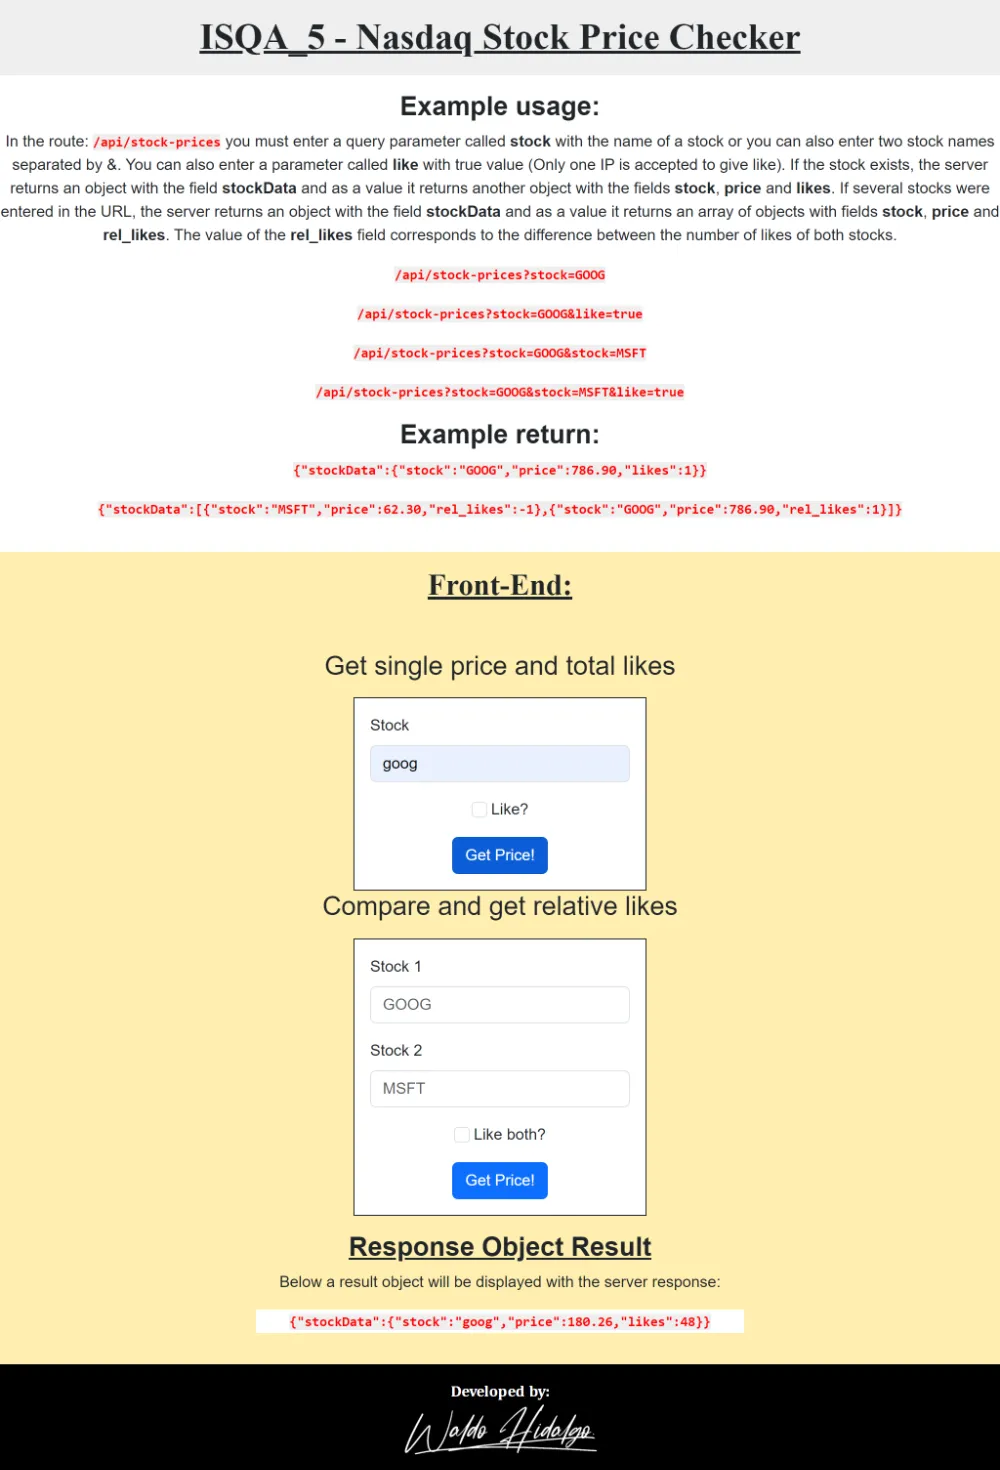
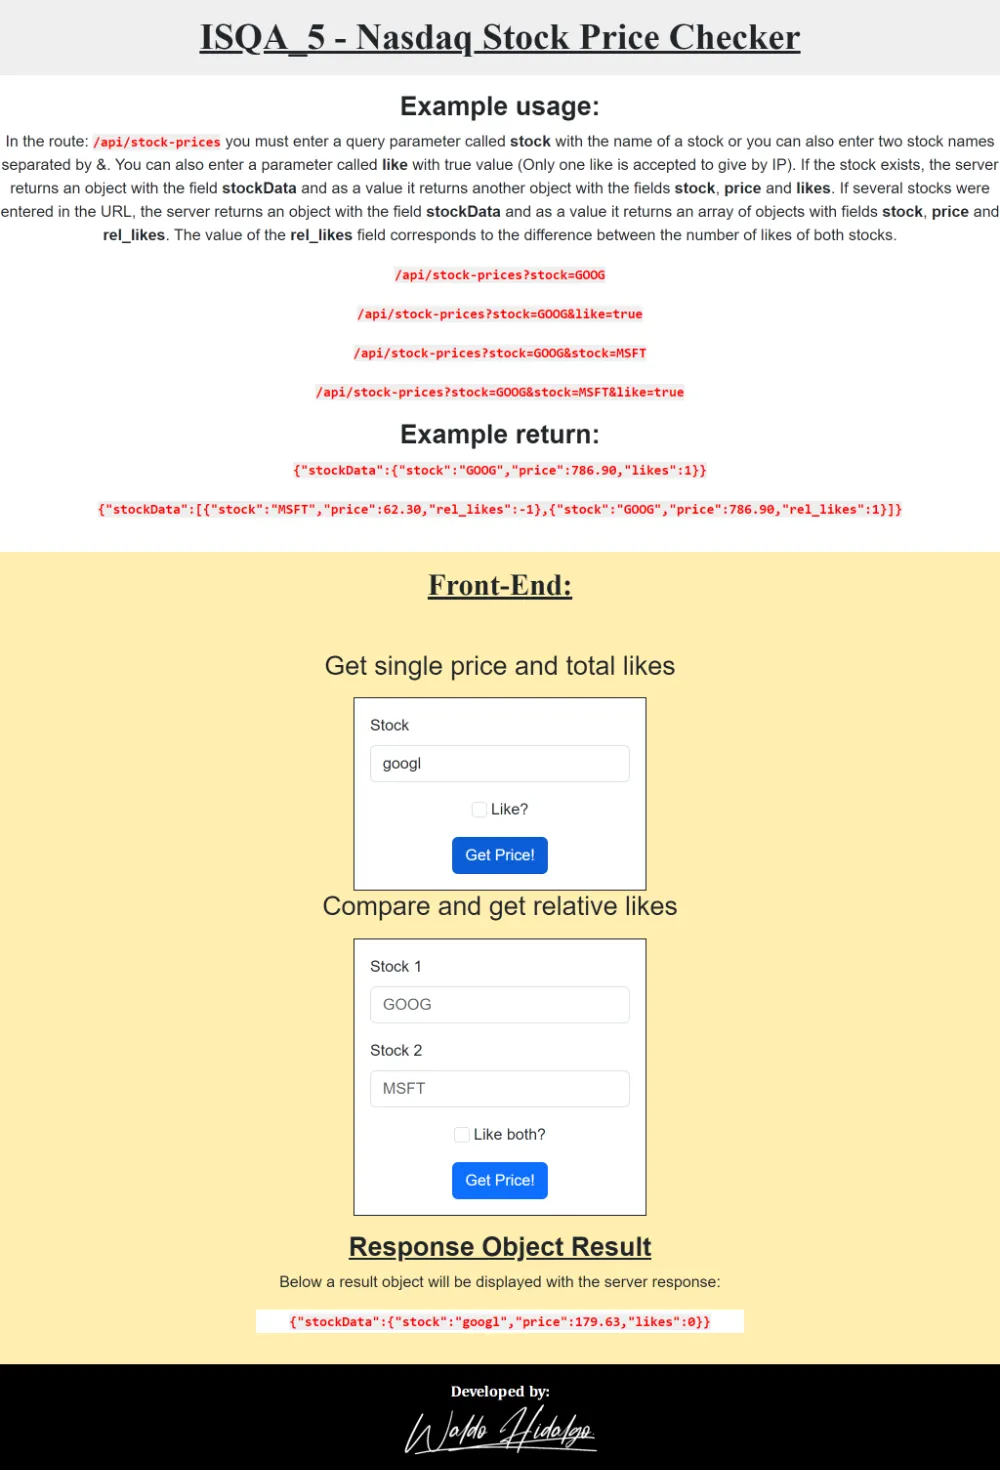
corrijo error ortografico y actualizo screenshots

Changed region(s): [[0.0, 0.0918, 0.992, 0.1224], [0.496, 0.8878, 0.682, 0.9184]]

diff --git a/views/index.html b/views/index.html
@@ -29,14 +29,15 @@
           In the route: <code>/api/stock-prices</code> you must enter a query
           parameter called <strong>stock</strong> with the name of a stock or
           you can also enter two stock names separated by &. You can also enter
-          a parameter called <strong>like</strong> with true value (Only one IP
-          is accepted to give like). If the stock exists, the server returns an
-          object with the field <strong>stockData</strong> and as a value it
-          returns another object with the fields <strong>stock</strong>,
-          <strong>price</strong> and <strong>likes</strong>. If several stocks
-          were entered in the URL, the server returns an object with the field
-          <strong>stockData</strong> and as a value it returns an array of
-          objects with fields <strong>stock</strong>, <strong>price</strong> and
+          a parameter called <strong>like</strong> with true value (Only one
+          like is accepted to give by IP). If the stock exists, the server
+          returns an object with the field <strong>stockData</strong> and as a
+          value it returns another object with the fields
+          <strong>stock</strong>, <strong>price</strong> and
+          <strong>likes</strong>. If several stocks were entered in the URL, the
+          server returns an object with the field <strong>stockData</strong> and
+          as a value it returns an array of objects with fields
+          <strong>stock</strong>, <strong>price</strong> and
           <strong>rel_likes</strong>. The value of the
           <strong>rel_likes</strong> field corresponds to the difference between
           the number of likes of both stocks.
